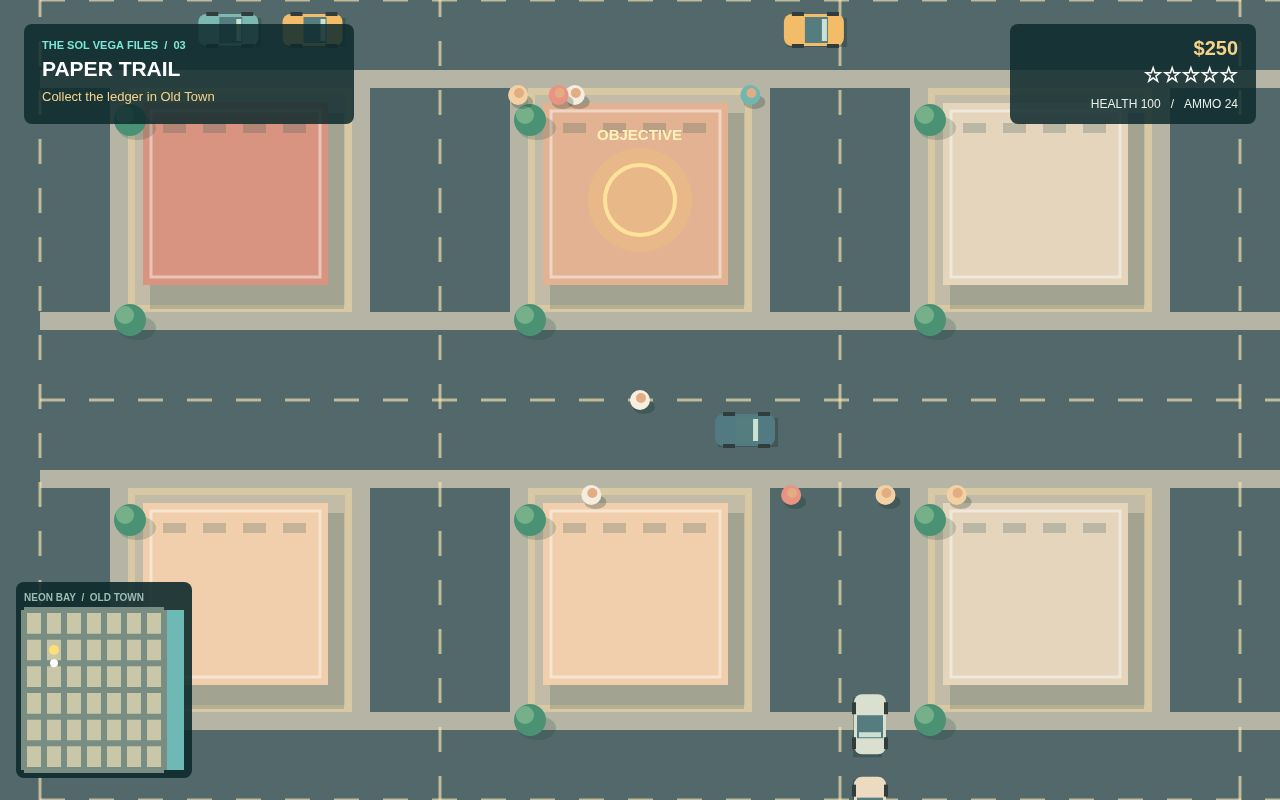
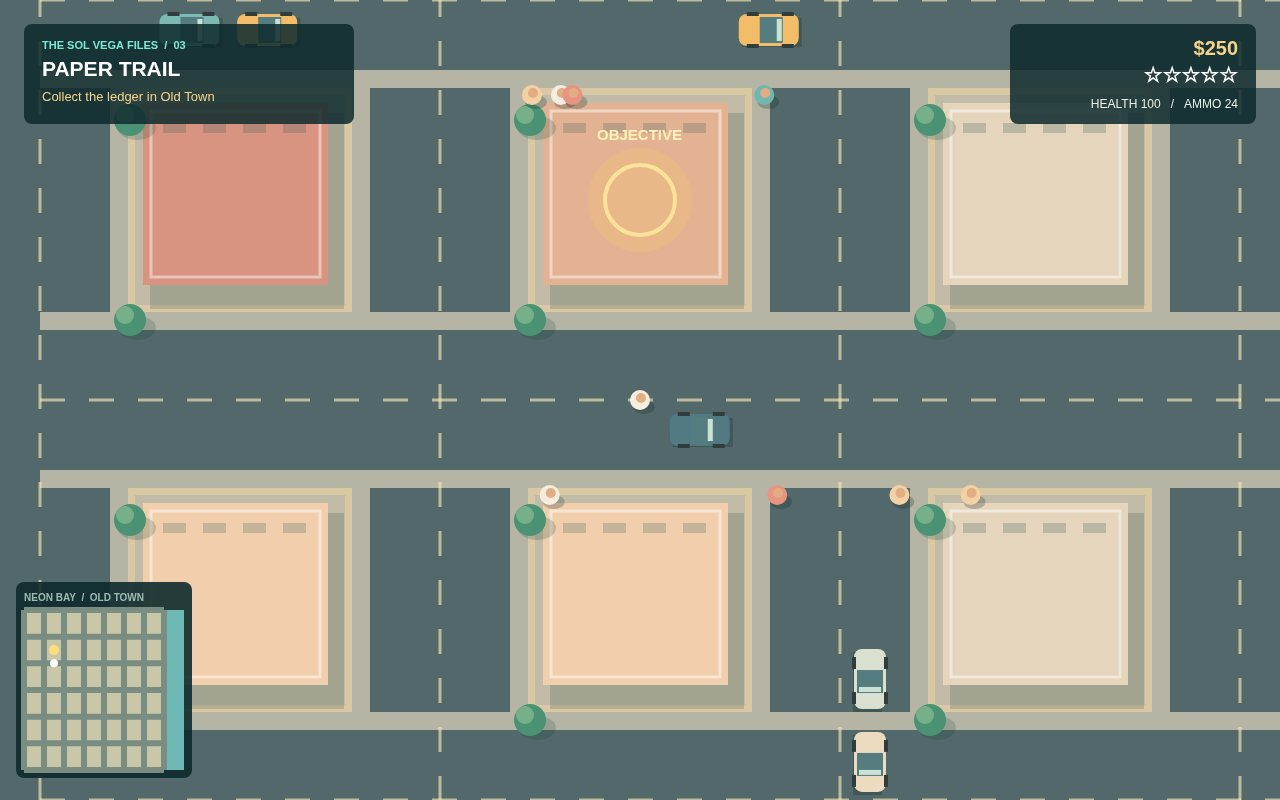
Polish gameplay depth (recorded)

diff --git a/game/main.js b/game/main.js
@@ -4,7 +4,7 @@ import { createPlayer, updatePlayer } from './player.js';
 import { createTraffic, updateTraffic } from './traffic.js';
 import { createPedestrians, updatePedestrians } from './pedestrians.js';
 import { updatePolice } from './police.js';
-import { missions, updateMission } from './missions.js';
+import { missions, updateMission, resetEncounter } from './missions.js';
 import { renderWorld } from './render.js';
 import { drawHud } from './hud.js';
 import { loadGame, saveGame, clearSave } from './save.js';
@@ -13,8 +13,8 @@ import { distance } from './config.js';
 
 const canvas=document.querySelector('#world'),ctx=canvas.getContext('2d'),overlay=document.querySelector('#overlay'),input=createInput(canvas),audio=createAudio();
 let state,playing=false,last=0,saveClock=0;
-function makeState(saved){const s={player:createPlayer(saved),cars:createTraffic(),people:createPedestrians(),police:[],bullets:[],missions,mission:saved?.mission??0,money:saved?.money??250,wanted:0,escape:0,audio,message:'',messageTime:0};s.crime=(n)=>{if(s.people.some(p=>p.health>0&&distance(p,s.player)<230)||s.police.some(p=>distance(p,s.player)<350)){s.wanted=Math.min(5,s.wanted+n);s.escape=0;}};return s;}
-function start(saved){state=makeState(saved);playing=true;overlay.innerHTML='';audio.unlock();}
+function makeState(saved){const s={player:createPlayer(saved),cars:createTraffic(),people:createPedestrians(),police:[],bullets:[],enemies:[],pickups:[],missionPhase:'',missionTimer:0,arrestTime:0,busted:0,shake:0,zoom:1,missions,mission:saved?.mission??0,money:saved?.money??250,wanted:0,escape:0,audio,message:'',messageTime:0};s.crime=(n)=>{if(s.people.some(p=>p.health>0&&distance(p,s.player)<230)||s.police.some(p=>distance(p,s.player)<350)){s.wanted=Math.min(5,s.wanted+n);s.escape=0;}};return s;}
+function start(saved){state=makeState(saved);resetEncounter(state);playing=true;overlay.innerHTML='';audio.unlock();}
 function menu(){playing=false;const saved=loadGame();state=makeState(saved);overlay.innerHTML=`<div class="menu"><div class="menu-inner"><div class="eyebrow">A SUN-SOAKED CITY OF SECRETS</div><div class="title">NEON<br><span>BAY.</span></div><div class="subtitle">The Sol Vega Files</div><div class="buttons"><button id="new">NEW GAME</button><button class="secondary" id="continue">CONTINUE</button></div><div class="menu-grid"><div><h3>HOW TO PLAY</h3><p>WASD / ARROWS — MOVE & DRIVE<br>E — ENTER / EXIT VEHICLE<br>MOUSE — AIM & FIRE<br>SPACE — PUNCH &nbsp; / &nbsp; R — RELOAD</p><p>Find the gold marker. Watch for witnesses.<br>Lose the heat by staying out of sight.</p></div><div><h3>THE SOL VEGA FILES</h3><ol>${missions.map((m,i)=>`<li class="${i<(saved?.mission??0)?'done':''}">${m.name} ${i<(saved?.mission??0)?'✓':''}</li>`).join('')}</ol></div></div></div></div>`;document.querySelector('#new').onclick=()=>{clearSave();start(null);};document.querySelector('#continue').onclick=()=>start(saved);}
-function frame(t){const dt=Math.min((t-last)/1000||0,.05);last=t;canvas.width=innerWidth;canvas.height=innerHeight;if(playing){updatePlayer(state,input,dt);updateTraffic(state.cars,dt,state.player);updatePedestrians(state.people,dt,state.player);updatePolice(state,dt);updateMission(state);state.messageTime-=dt;audio.update(t,!!state.player.car,state.wanted);saveClock+=dt;if(saveClock>5){saveGame(state);saveClock=0;}if(state.player.health<=0){state.player.health=100;state.player.x=1200;state.player.y=800;state.player.car=null;state.wanted=0;state.police=[];state.money=Math.max(0,state.money-200);state.message='BACK ON YOUR FEET  −$200';state.messageTime=4;}}renderWorld(ctx,state,canvas.width,canvas.height);if(playing)drawHud(ctx,state,canvas.width,canvas.height);input.end();requestAnimationFrame(frame);}
+function frame(t){const dt=Math.min((t-last)/1000||0,.05);last=t;canvas.width=innerWidth;canvas.height=innerHeight;if(playing){if(state.busted>0)state.busted-=dt;else{updatePlayer(state,input,dt);updateTraffic(state.cars,dt,state.player,state);updatePedestrians(state.people,dt,state.player);updatePolice(state,dt);if(!state.busted)updateMission(state,dt);}state.shake=Math.max(0,state.shake-dt);state.zoom+=( (state.player.car?1-Math.min(Math.abs(state.player.speed)/260,1)*.17:1)-state.zoom)*Math.min(1,dt*3);state.messageTime-=dt;audio.update(t,!!state.player.car,state.wanted);saveClock+=dt;if(saveClock>5){saveGame(state);saveClock=0;}if(state.player.health<=0){state.player.health=100;state.player.x=1200;state.player.y=800;state.player.car=null;state.player.speed=0;state.wanted=0;state.police=[];state.bullets=[];resetEncounter(state);state.money=Math.max(0,state.money-200);state.message='BACK ON YOUR FEET  −$200';state.messageTime=4;}}renderWorld(ctx,state,canvas.width,canvas.height);if(playing)drawHud(ctx,state,canvas.width,canvas.height);input.end();requestAnimationFrame(frame);}
 menu();const scene=new URLSearchParams(location.search).get('scene');if(stage(state,scene)){playing=true;overlay.innerHTML='';}requestAnimationFrame(frame);

diff --git a/game/hud.js b/game/hud.js
@@ -1,6 +1,7 @@
 import { district } from './city.js';
 import { WORLD } from './config.js';
-export function drawHud(ctx,s,w,h){const p=s.player,m=s.missions[s.mission];ctx.save();ctx.textBaseline='top';ctx.fillStyle='rgba(14,42,45,.86)';ctx.beginPath();ctx.roundRect(24,24,330,100,8);ctx.fill();ctx.fillStyle='#7ce7d5';ctx.font='bold 11px Arial';ctx.fillText('THE SOL VEGA FILES  /  '+String(Math.min(s.mission+1,6)).padStart(2,'0'),42,40);ctx.fillStyle='#fff';ctx.font='bold 21px Arial';ctx.fillText(m?.name.toUpperCase()||'THE CITY IS YOURS',42,60);ctx.fillStyle='#f7d28a';ctx.font='13px Arial';ctx.fillText(m?.objective||'Explore Neon Bay',42,91);
+import { missionTarget } from './missions.js';
+export function drawHud(ctx,s,w,h){const p=s.player,m=s.missions[s.mission];ctx.save();ctx.textBaseline='top';ctx.fillStyle='rgba(14,42,45,.86)';ctx.beginPath();ctx.roundRect(24,24,330,100,8);ctx.fill();ctx.fillStyle='#7ce7d5';ctx.font='bold 11px Arial';ctx.fillText('THE SOL VEGA FILES  /  '+String(Math.min(s.mission+1,6)).padStart(2,'0'),42,40);ctx.fillStyle='#fff';ctx.font='bold 21px Arial';ctx.fillText(m?.name.toUpperCase()||'THE CITY IS YOURS',42,60);ctx.fillStyle='#f7d28a';ctx.font='13px Arial';ctx.fillText(m?.objective||'Explore Neon Bay',42,91,295);
   ctx.textAlign='right';ctx.fillStyle='rgba(14,42,45,.86)';ctx.beginPath();ctx.roundRect(w-270,24,246,100,8);ctx.fill();ctx.fillStyle='#f7d28a';ctx.font='bold 20px Arial';ctx.fillText('$'+s.money.toLocaleString(),w-42,39);ctx.fillStyle='#fff';ctx.font='bold 21px Arial';ctx.fillText('★'.repeat(s.wanted)+'☆'.repeat(5-s.wanted),w-42,66);ctx.fillStyle='#e8efe8';ctx.font='12px Arial';ctx.fillText('HEALTH '+Math.ceil(p.health)+'   /   AMMO '+p.ammo,w-42,99);ctx.textAlign='left';
-  const x=24,y=h-190,size=160;ctx.fillStyle='rgba(14,42,45,.9)';ctx.beginPath();ctx.roundRect(x-8,y-28,size+16,size+36,8);ctx.fill();ctx.fillStyle='#9cbcb1';ctx.font='bold 10px Arial';ctx.fillText('NEON BAY  /  '+district(p.x,p.y),x,y-17);ctx.fillStyle='#c9c7a8';ctx.fillRect(x,y,size,size);ctx.fillStyle='#6eb9b6';ctx.fillRect(x+140,y,20,size);ctx.strokeStyle='#798d83';ctx.lineWidth=6;for(let i=0;i<=7;i++){ctx.beginPath();ctx.moveTo(x+i*20,y);ctx.lineTo(x+i*20,y+size);ctx.stroke();}for(let i=0;i<=6;i++){ctx.beginPath();ctx.moveTo(x,y+i*size/6);ctx.lineTo(x+140,y+i*size/6);ctx.stroke();}const dot=(o,color,r)=>{ctx.fillStyle=color;ctx.beginPath();ctx.arc(x+o.x/WORLD.width*size,y+o.y/WORLD.height*size,r,0,7);ctx.fill();};if(m)dot(m,'#ffde79',5);for(const cop of s.police)dot(cop,'#fa6f68',3);dot(p,'#fff',4);
-  if(p.car){ctx.textAlign='right';ctx.fillStyle='#fff';ctx.font='bold 32px Arial';ctx.fillText(String(Math.round(Math.abs(p.speed)*.35)),w-32,h-82);ctx.font='bold 10px Arial';ctx.fillStyle='#bfe0d7';ctx.fillText('MPH',w-32,h-45);}ctx.textAlign='center';if(s.messageTime>0){ctx.fillStyle='#ffdf91';ctx.font='bold 24px Arial';ctx.fillText(s.message,w/2,150);}ctx.restore();}
+  const x=24,y=h-190,size=160;ctx.fillStyle='rgba(14,42,45,.9)';ctx.beginPath();ctx.roundRect(x-8,y-28,size+16,size+36,8);ctx.fill();ctx.fillStyle='#9cbcb1';ctx.font='bold 10px Arial';ctx.fillText('NEON BAY  /  '+district(p.x,p.y),x,y-17);ctx.fillStyle='#c9c7a8';ctx.fillRect(x,y,size,size);ctx.fillStyle='#6eb9b6';ctx.fillRect(x+140,y,20,size);ctx.strokeStyle='#798d83';ctx.lineWidth=6;for(let i=0;i<=7;i++){ctx.beginPath();ctx.moveTo(x+i*20,y);ctx.lineTo(x+i*20,y+size);ctx.stroke();}for(let i=0;i<=6;i++){ctx.beginPath();ctx.moveTo(x,y+i*size/6);ctx.lineTo(x+140,y+i*size/6);ctx.stroke();}const dot=(o,color,r)=>{ctx.fillStyle=color;ctx.beginPath();ctx.arc(x+o.x/WORLD.width*size,y+o.y/WORLD.height*size,r,0,7);ctx.fill();};if(m)dot(missionTarget(s),'#ffde79',5);for(const cop of s.police)dot(cop,'#fa6f68',3);dot(p,'#fff',4);
+  if(p.car){ctx.textAlign='right';ctx.fillStyle='#fff';ctx.font='bold 32px Arial';ctx.fillText(String(Math.round(Math.abs(p.speed)*.35)),w-32,h-82);ctx.font='bold 10px Arial';ctx.fillStyle='#bfe0d7';ctx.fillText('MPH',w-32,h-45);}ctx.textAlign='center';if(s.messageTime>0){ctx.fillStyle='#ffdf91';ctx.font='bold 24px Arial';ctx.fillText(s.message,w/2,150);}if(s.busted>0){ctx.fillStyle='rgba(15,30,35,.8)';ctx.fillRect(0,0,w,h);ctx.fillStyle='#ff7770';ctx.font='bold 64px Arial';ctx.fillText('BUSTED',w/2,h/2-65);ctx.fillStyle='#fff';ctx.font='20px Arial';ctx.fillText('Fine: $'+s.bustedFine+'  •  Released at the station',w/2,h/2+15);}ctx.restore();}

diff --git a/game/police.js b/game/police.js
@@ -1,3 +1,6 @@
 import { distance, clamp } from './config.js';
-export function updatePolice(s,dt){const p=s.player;if(s.wanted>0){s.escape+=dt; if(s.police.length<Math.min(4,s.wanted+1)){const a=s.police.length*2+1;s.police.push({x:p.x+Math.cos(a)*500,y:p.y+Math.sin(a)*500,angle:0,shot:2});}for(const cop of s.police){const d=distance(cop,p),a=Math.atan2(p.y-cop.y,p.x-cop.x);cop.angle=a;if(d>70){cop.x+=Math.cos(a)*130*dt;cop.y+=Math.sin(a)*130*dt;}if(d<360){s.escape=0;cop.shot-=dt;if(cop.shot<0){cop.shot=2.4;s.bullets.push({x:cop.x,y:cop.y,vx:Math.cos(a)*350,vy:Math.sin(a)*350,life:1.4,owner:'police'});}}if(d<45)p.health-=8*dt;}if(s.escape>18){s.wanted--;s.escape=0;}}else s.police=[];
-  for(const b of s.bullets){b.x+=b.vx*dt;b.y+=b.vy*dt;b.life-=dt;if(b.owner==='police'&&distance(b,p)<16){p.health-=8;b.life=0;}if(b.owner==='player'){for(const person of s.people)if(person.health>0&&distance(b,person)<14){person.health=0;b.life=0;}for(const cop of s.police)if(distance(b,cop)<20){cop.x+=b.vx*.1;cop.y+=b.vy*.1;b.life=0;}}}s.bullets=s.bullets.filter(b=>b.life>0);p.health=clamp(p.health,0,100);}
+import { resetEncounter } from './missions.js';
+import { saveGame } from './save.js';
+export function updatePolice(s,dt){const p=s.player;if(s.wanted>0){s.escape+=dt;if(s.police.length<Math.min(4,s.wanted+1)){const a=s.police.length*2+1;s.police.push({x:p.x+Math.cos(a)*500,y:p.y+Math.sin(a)*500,angle:0,shot:2});}let close=false;for(const cop of s.police){const d=distance(cop,p),a=Math.atan2(p.y-cop.y,p.x-cop.x);cop.angle=a;if(d>70){cop.x+=Math.cos(a)*130*dt;cop.y+=Math.sin(a)*130*dt;}if(s.wanted===5&&!p.car&&d<100)close=true;if(s.wanted===5&&!p.car&&d<35)s.arrestTime=2;if(d<360){s.escape=0;cop.shot-=dt;if(cop.shot<0){cop.shot=2.4;s.bullets.push({x:cop.x,y:cop.y,vx:Math.cos(a)*350,vy:Math.sin(a)*350,life:1.4,owner:'police'});}}if(d<45&&s.wanted<5)p.health-=8*dt;}s.arrestTime=close?s.arrestTime+dt:0;if(s.arrestTime>=2){const fine=Math.min(s.money,Math.max(100,Math.floor(s.money*.2)));s.money-=fine;s.wanted=0;s.police=[];s.bullets=[];p.car=null;p.speed=0;p.x=1200;p.y=800;p.health=100;resetEncounter(s);s.busted=3;s.bustedFine=fine;s.arrestTime=0;saveGame(s);return;}if(s.escape>18){s.wanted--;s.escape=0;}}else {s.police=[];s.arrestTime=0;}
+  for(const e of s.enemies){const d=distance(e,p),a=Math.atan2(p.y-e.y,p.x-e.x),move=a+(d<160?Math.PI/2:0);e.x+=Math.cos(move)*55*dt;e.y+=Math.sin(move)*55*dt;e.shot-=dt;if(d<500&&e.shot<=0){e.shot=1.5+Math.random()*.7;s.bullets.push({x:e.x,y:e.y,vx:Math.cos(a)*310,vy:Math.sin(a)*310,life:1.7,owner:'enemy'});}}
+  for(const b of s.bullets){b.x+=b.vx*dt;b.y+=b.vy*dt;b.life-=dt;if((b.owner==='police'||b.owner==='enemy')&&distance(b,p)<16){p.health-=b.owner==='enemy'?9:8;b.life=0;}if(b.owner==='player'){for(const e of s.enemies)if(b.life>0&&distance(b,e)<16){e.health--;b.life=0;if(e.health<=0)s.pickups.push({x:e.x,y:e.y,kind:Math.random()<.5?'cash':'ammo'});}for(const person of s.people)if(b.life>0&&person.health>0&&distance(b,person)<14){person.health=0;b.life=0;}for(const cop of s.police)if(b.life>0&&distance(b,cop)<20){cop.x+=b.vx*.1;cop.y+=b.vy*.1;b.life=0;}}}s.enemies=s.enemies.filter(e=>e.health>0);s.bullets=s.bullets.filter(b=>b.life>0);s.pickups=s.pickups.filter(item=>{if(distance(item,p)<35){if(item.kind==='cash')s.money+=100;else p.ammo+=12;s.audio.pickup();return false;}return true;});p.health=clamp(p.health,0,100);}

diff --git a/game/render.js b/game/render.js
@@ -1,4 +1,5 @@
 import { drawCity } from './city.js';
+import { missionTarget } from './missions.js';
 export function car(ctx,c,police=false){ctx.save();ctx.translate(c.x,c.y);ctx.rotate(c.angle);ctx.fillStyle='rgba(22,39,39,.28)';ctx.fillRect(-27,-12,60,29);ctx.fillStyle=police?'#f4f2dc':c.color;ctx.beginPath();ctx.roundRect(-30,-16,60,32,8);ctx.fill();ctx.fillStyle=police?'#315261':'#557d80';ctx.fillRect(-9,-13,23,26);ctx.fillStyle='#cbe1d4';ctx.fillRect(8,-11,5,22);ctx.fillStyle='#313d3d';ctx.fillRect(-22,-18,12,4);ctx.fillRect(13,-18,12,4);ctx.fillRect(-22,14,12,4);ctx.fillRect(13,14,12,4);if(police){ctx.fillStyle='#e56461';ctx.fillRect(-5,-4,6,8);ctx.fillStyle='#65c9df';ctx.fillRect(1,-4,6,8);}ctx.restore();}
 export function person(ctx,p,color){ctx.save();ctx.translate(p.x,p.y);ctx.fillStyle='rgba(20,45,40,.25)';ctx.beginPath();ctx.ellipse(4,7,11,7,0,0,7);ctx.fill();ctx.fillStyle=color;ctx.beginPath();ctx.arc(0,0,10,0,7);ctx.fill();ctx.fillStyle='#e2ad83';ctx.beginPath();ctx.arc(1,-2,5,0,7);ctx.fill();ctx.restore();}
-export function renderWorld(ctx,s,w,h){const p=s.player;ctx.save();ctx.translate(w/2-p.x,h/2-p.y);drawCity(ctx);const m=s.missions[s.mission];if(m){ctx.fillStyle='rgba(255,209,104,.23)';ctx.beginPath();ctx.arc(m.x,m.y,52,0,7);ctx.fill();ctx.strokeStyle='#ffe29b';ctx.lineWidth=4;ctx.beginPath();ctx.arc(m.x,m.y,35,0,7);ctx.stroke();ctx.fillStyle='#fff2b7';ctx.font='bold 15px Arial';ctx.fillText('OBJECTIVE',m.x-43,m.y-60);}for(const c of s.cars)if(c!==p.car)car(ctx,c);for(const ped of s.people)if(ped.health>0)person(ctx,ped,ped.color);for(const cop of s.police)car(ctx,cop,true);if(p.car)car(ctx,p.car);else person(ctx,p,'#f6eee0');for(const b of s.bullets){ctx.fillStyle='#fff0a3';ctx.beginPath();ctx.arc(b.x,b.y,3,0,7);ctx.fill();}ctx.restore();}
+export function renderWorld(ctx,s,w,h){const p=s.player;ctx.save();const shake=s.shake>0?3*s.shake/.2:0;ctx.translate(w/2+(Math.random()-.5)*shake,h/2+(Math.random()-.5)*shake);ctx.scale(s.zoom,s.zoom);ctx.translate(-p.x,-p.y);drawCity(ctx);const m=missionTarget(s);if(m){ctx.fillStyle='rgba(255,209,104,.23)';ctx.beginPath();ctx.arc(m.x,m.y,52,0,7);ctx.fill();ctx.strokeStyle='#ffe29b';ctx.lineWidth=4;ctx.beginPath();ctx.arc(m.x,m.y,35,0,7);ctx.stroke();ctx.fillStyle='#fff2b7';ctx.font='bold 15px Arial';ctx.fillText('OBJECTIVE',m.x-43,m.y-60);}for(const c of s.cars)if(c!==p.car)car(ctx,c);for(const ped of s.people)if(ped.health>0){if(ped.fallen>0){ctx.save();ctx.translate(ped.x,ped.y);ctx.rotate(1.2);person(ctx,{x:0,y:0},ped.color);ctx.fillStyle='#e2ad83';ctx.fillRect(-18,-3,36,6);ctx.restore();}else person(ctx,ped,ped.color);}for(const item of s.pickups){ctx.fillStyle=item.kind==='cash'?'#8af0a8':'#ffd478';ctx.font='bold 18px Arial';ctx.fillText(item.kind==='cash'?'$':'+',item.x,item.y);}for(const e of s.enemies){person(ctx,e,'#b3414b');ctx.fillStyle='#e75a59';ctx.fillRect(e.x-15,e.y-23,e.health*10,3);}for(const cop of s.police)car(ctx,cop,true);if(p.car)car(ctx,p.car);else person(ctx,p,'#f6eee0');for(const b of s.bullets){ctx.fillStyle=b.owner==='enemy'?'#ff806e':'#fff0a3';ctx.beginPath();ctx.arc(b.x,b.y,3,0,7);ctx.fill();}ctx.restore();}

diff --git a/game/missions.js b/game/missions.js
@@ -4,8 +4,17 @@ export const missions=[
   {name:'A favor in the sun',objective:'Meet Luma at the corner café',x:1600,y:800},
   {name:'Borrowed wheels',objective:'Find a car and drive to the garage',x:2000,y:1200,car:true},
   {name:'Paper trail',objective:'Collect the ledger in Old Town',x:600,y:600},
-  {name:'Heat on the harbor',objective:'Reach the warehouse and shake the heat',x:1600,y:2000},
-  {name:'The handoff',objective:'Deliver the ledger to the marina',x:2600,y:800},
+  {name:'Heat on the harbor',objective:'Reach the warehouse',x:1600,y:2000,encounter:true},
+  {name:'The handoff',objective:'Reach the marina to start the delivery',x:2600,y:800,delivery:true},
   {name:'Signal fire',objective:'Reach the signal at the north pier',x:2760,y:400}
 ];
-export function updateMission(s){const m=missions[s.mission];if(!m)return;if(distance(s.player,m)<65&&(!m.car||s.player.car)){s.mission++;s.money+=500;s.wanted=0;s.police=[];s.message=s.mission===6?'THE SOL VEGA FILES COMPLETE':'MISSION COMPLETE  +$500';s.messageTime=4;s.audio.mission();saveGame(s);}}
+function spawn(s,m){s.enemies=[[-95,-40],[95,-45],[0,105]].map(([x,y],i)=>({x:m.x+x,y:m.y+y,health:3,shot:1+i*.45}));}
+export function resetEncounter(s){s.enemies=[];s.missionPhase='';s.missionTimer=0;missions[3].objective='Reach the warehouse';missions[4].objective='Reach the marina to start the delivery';}
+export function updateMission(s,dt){const m=missions[s.mission];if(!m)return;
+  if(m.encounter&&s.missionPhase==='fight'){m.objective=`Clear the warehouse guards (${s.enemies.length} left)`;if(!s.enemies.length)complete(s);return;}
+  if(m.delivery&&s.missionPhase==='delivery'){s.missionTimer-=dt;m.objective=`Deliver to the north pier: ${Math.max(0,Math.ceil(s.missionTimer))}s`;if(s.missionTimer<=0){resetEncounter(s);m.objective='Delivery missed — return to the marina';s.message='DELIVERY FAILED — TRY AGAIN';s.messageTime=4;}else if(distance(s.player,{x:2760,y:400})<65)complete(s);return;}
+  if(m.delivery&&s.missionPhase==='fight'){m.objective=`Defeat the rival crew (${s.enemies.length} left)`;if(!s.enemies.length){s.missionPhase='delivery';s.missionTimer=90;s.message='DELIVER THE LEDGER TO THE NORTH PIER';s.messageTime=4;}return;}
+  if(distance(s.player,m)<65&&(!m.car||s.player.car)){if(m.encounter||m.delivery){s.missionPhase='fight';spawn(s,m);s.message=m.delivery?'RIVAL CREW!':'WAREHOUSE AMBUSH!';s.messageTime=3;}else complete(s);}
+}
+function complete(s){s.mission++;s.money+=500;s.wanted=0;s.police=[];resetEncounter(s);s.message=s.mission===6?'THE SOL VEGA FILES COMPLETE':'MISSION COMPLETE  +$500';s.messageTime=4;s.audio.mission();saveGame(s);}
+export function missionTarget(s){return s.mission===4&&s.missionPhase==='delivery'?{x:2760,y:400}:missions[s.mission];}

diff --git a/game/player.js b/game/player.js
@@ -1,8 +1,9 @@
 import { clamp, distance, WORLD } from './config.js';
+import { moveCar, blocked } from './collision.js';
 export function createPlayer(saved){return {x:saved?.x??1220,y:saved?.y??840,angle:0,health:saved?.health??100,ammo:24,car:null,speed:0,cooldown:0};}
 export function updatePlayer(s,input,dt){const p=s.player,k=input.keys;let dx=(k.has('KeyD')||k.has('ArrowRight')?1:0)-(k.has('KeyA')||k.has('ArrowLeft')?1:0),dy=(k.has('KeyS')||k.has('ArrowDown')?1:0)-(k.has('KeyW')||k.has('ArrowUp')?1:0);p.cooldown=Math.max(0,p.cooldown-dt);
-  if(input.pressed.has('KeyE')){if(p.car){p.x+=Math.cos(p.angle+Math.PI/2)*48;p.y+=Math.sin(p.angle+Math.PI/2)*48;p.car=null;p.speed=0;}else{const car=s.cars.find(c=>distance(c,p)<65);if(car){p.car=car;p.angle=car.angle;car.traffic=false;s.crime(1);}}}
-  if(p.car){p.speed=clamp(p.speed+(-dy*230-p.speed*1.1)*dt,-100,260);p.angle+=dx*dt*2.3*clamp(Math.abs(p.speed)/80,0,1)*(p.speed<0?-1:1);p.x+=Math.cos(p.angle)*p.speed*dt;p.y+=Math.sin(p.angle)*p.speed*dt;Object.assign(p.car,{x:p.x,y:p.y,angle:p.angle});}else{const length=Math.hypot(dx,dy)||1;p.x+=dx/length*145*dt;p.y+=dy/length*145*dt;if(dx||dy)p.angle=Math.atan2(dy,dx);}
+  if(input.pressed.has('KeyE')){if(p.car){for(const side of [1,-1]){const x=p.x+Math.cos(p.angle+Math.PI/2)*48*side,y=p.y+Math.sin(p.angle+Math.PI/2)*48*side;if(!blocked(x,y,10)){p.x=x;p.y=y;break;}}p.car=null;p.speed=0;}else{const car=s.cars.find(c=>distance(c,p)<65);if(car){p.car=car;p.angle=car.angle;car.traffic=false;s.crime(1);}}}
+  if(p.car){p.speed=clamp(p.speed+(-dy*230-p.speed*1.1)*dt,-100,260);p.angle+=dx*dt*2.3*clamp(Math.abs(p.speed)/80,0,1)*(p.speed<0?-1:1);const hit=moveCar(p,Math.cos(p.angle)*p.speed*dt,Math.sin(p.angle)*p.speed*dt);if(hit){if(Math.abs(p.speed)>70)s.shake=Math.max(s.shake,.2);p.speed*=.35;}Object.assign(p.car,{x:p.x,y:p.y,angle:p.angle});}else{const length=Math.hypot(dx,dy)||1;p.x+=dx/length*145*dt;p.y+=dy/length*145*dt;if(dx||dy)p.angle=Math.atan2(dy,dx);}
   p.x=clamp(p.x,20,WORLD.width-20);p.y=clamp(p.y,20,WORLD.height-20);
   if(input.pressed.has('KeyR'))p.ammo=24;
   if((input.mouse.down||input.pressed.has('Space'))&&p.cooldown<=0){p.cooldown=input.mouse.down?.24:.5;if(input.mouse.down&&p.ammo>0){p.ammo--;s.audio.shot();s.crime(1);const a=Math.atan2(input.mouse.y-innerHeight/2,input.mouse.x-innerWidth/2);s.bullets.push({x:p.x,y:p.y,vx:Math.cos(a)*650,vy:Math.sin(a)*650,life:1,owner:'player'});}else if(input.pressed.has('Space')){for(const person of s.people)if(distance(person,p)<48){person.health-=50;s.crime(1);}}}

diff --git a/game/traffic.js b/game/traffic.js
@@ -1,3 +1,8 @@
 import { colors, random, WORLD, distance } from './config.js';
+import { moveCar, separateCars } from './collision.js';
 export function createTraffic() { const rnd=random(77), cars=[]; for(let i=0;i<28;i++){const horizontal=i%2===0;cars.push({x:horizontal?rnd()*2700:Math.floor(rnd()*7)*400+30,y:horizontal?Math.floor(rnd()*6)*400+30:rnd()*2300,angle:horizontal?0:Math.PI/2,speed:55+rnd()*30,color:colors[i%colors.length], traffic:true});} return cars; }
-export function updateTraffic(cars,dt,player){for(const c of cars){if(c===player.car)continue;if(c.traffic){c.x+=Math.cos(c.angle)*c.speed*dt;c.y+=Math.sin(c.angle)*c.speed*dt;if(c.x>2800)c.x=0;if(c.y>2400)c.y=0;if(distance(c,player)<48 && !player.car)c.speed=Math.max(0,c.speed-100*dt);else c.speed=Math.min(75,c.speed+12*dt);}}}
+export function updateTraffic(cars,dt,player,state){for(const c of cars){if(c===player.car)continue;if(c.traffic){if(moveCar(c,Math.cos(c.angle)*c.speed*dt,Math.sin(c.angle)*c.speed*dt))c.speed=0;if(c.x>=2790&&Math.cos(c.angle)>.5)c.x=25;if(c.y>=2370&&Math.sin(c.angle)>.5)c.y=25;if(distance(c,player)<48 && !player.car)c.speed=Math.max(0,c.speed-100*dt);else c.speed=Math.min(75,c.speed+12*dt);}}
+  for(let i=0;i<cars.length;i++)for(let j=i+1;j<cars.length;j++){const a=cars[i],b=cars[j];if(separateCars(a,b)){if(a===player.car||b===player.car){if(Math.abs(player.speed)>70)state.shake=Math.max(state.shake,.16);player.speed*=.65;}if(a.traffic)a.speed*=.8;if(b.traffic)b.speed*=.8;}}
+  if(player.car){player.x=player.car.x;player.y=player.car.y;}
+  for(const c of cars)for(const ped of state.people)if(ped.health>0&&!ped.fallen&&distance(c,ped)<30&&Math.abs(c===player.car?player.speed:c.speed)>35){ped.fallen=5;ped.dir*=-1;if(c===player.car){state.wanted=Math.min(5,state.wanted+1);state.escape=0;state.message='HIT AND RUN  •  WITNESSES CALLED IT IN';state.messageTime=3;}}
+}

diff --git a/game/collision.js b/game/collision.js
@@ -1,0 +1,29 @@
+import { clamp } from './config.js';
+
+// Match the solid roof rectangles drawn by city.js; parks and beach blocks are open.
+export const buildings = [];
+for (let x=0;x<7;x++) for (let y=0;y<6;y++) {
+  if ((x===6 && y<4) || (x+y*3)%9===0) continue;
+  buildings.push({x:x*400+103,y:y*400+103,w:185,h:182});
+}
+export function blocked(x,y,r=25) {
+  return buildings.some(b => x+r>b.x && x-r<b.x+b.w && y+r>b.y && y-r<b.y+b.h);
+}
+export function moveCar(car,dx,dy) {
+  let hit=false;
+  // Small steps prevent tunnelling even during a slow frame.
+  const steps=Math.max(1,Math.ceil(Math.max(Math.abs(dx),Math.abs(dy))/8));
+  for(let i=0;i<steps;i++) {
+    const x=clamp(car.x+dx/steps,25,3175), y=clamp(car.y+dy/steps,25,2375);
+    if(!blocked(x,car.y)) car.x=x; else hit=true;
+    if(!blocked(car.x,y)) car.y=y; else hit=true;
+  }
+  return hit;
+}
+export function separateCars(a,b) {
+  const dx=b.x-a.x,dy=b.y-a.y,d=Math.hypot(dx,dy);
+  if(d>=48)return false;
+  const nx=d?dx/d:1,ny=d?dy/d:0,push=(48-d)/2;
+  moveCar(a,-nx*push,-ny*push);moveCar(b,nx*push,ny*push);
+  return true;
+}

diff --git a/game/pedestrians.js b/game/pedestrians.js
@@ -1,3 +1,3 @@
 import { random, distance } from './config.js';
 export function createPedestrians(){const rnd=random(45), people=[];for(let i=0;i<40;i++)people.push({x:100+rnd()*2500,y:Math.floor(rnd()*6)*400+95,dir:rnd()>.5?1:-1,color:['#e99483','#f4d1a4','#71b7b0','#f5ece0'][i%4],health:100});return people;}
-export function updatePedestrians(people,dt,player){for(const p of people){if(p.health<=0)continue;const near=distance(p,player)<130;p.x+=p.dir*(near?75:23)*dt;if(p.x<90||p.x>2700)p.dir*=-1;}}
+export function updatePedestrians(people,dt,player){for(const p of people){if(p.health<=0)continue;if(p.fallen>0){p.fallen-=dt;continue;}const near=distance(p,player)<130;p.x+=p.dir*(near?75:23)*dt;if(p.x<90||p.x>2700)p.dir*=-1;}}
